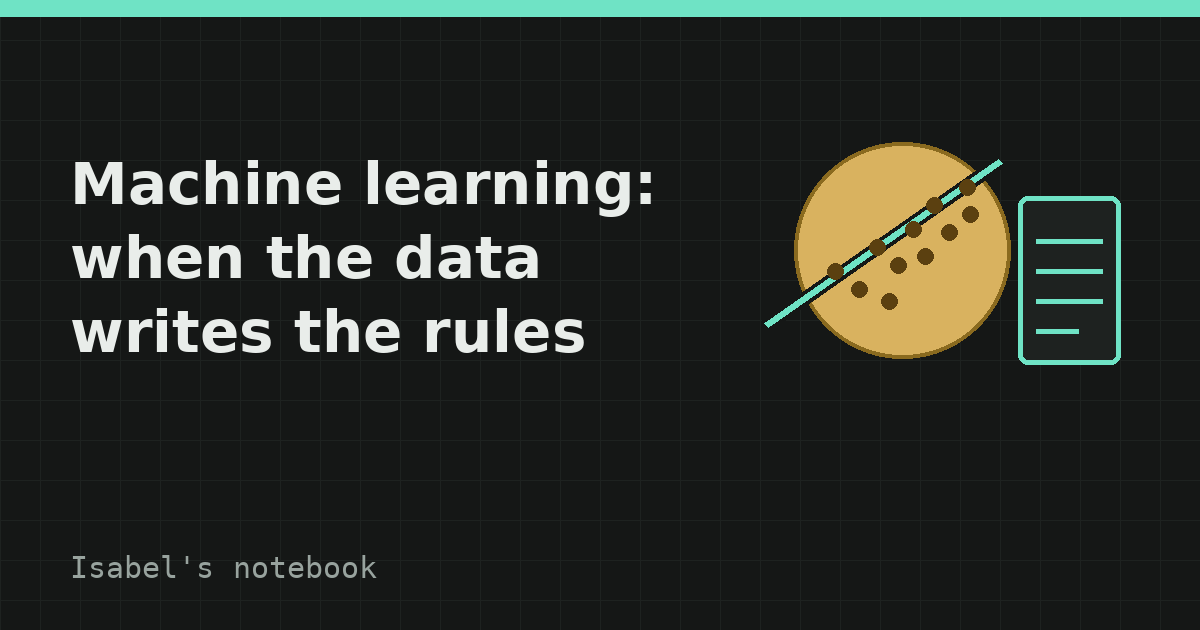
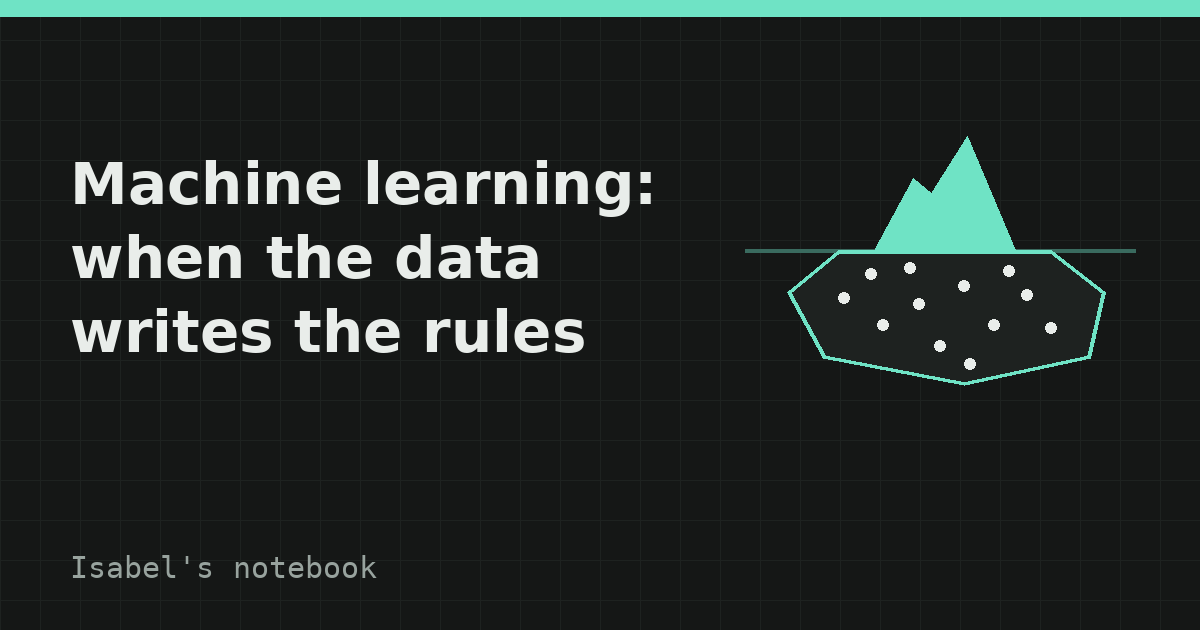
Primer art v4

Changed region(s): [[0.6167, 0.2111, 0.9558, 0.6032]]

diff --git a/docs/es/blog/machine-learning-datos-escriben-reglas/index.html b/docs/es/blog/machine-learning-datos-escriben-reglas/index.html
@@ -35,7 +35,7 @@
 <article>
 <header class="post-head"><div class="wrap"><div>
 <div class="post-meta"><time datetime="2026-10-11">11 oct 2026</time><span>10 min de lectura</span><span>Clase de Daniel Sáenz</span></div>
-<h1>Machine Learning: cuando los datos escriben las reglas</h1><div class="tags"><span>machine-learning</span><span>fundamentos</span><span>data-science</span></div></div><svg class="motif" viewBox="0 0 260 200" aria-hidden="true" focusable="false"><circle cx="105" cy="100" r="72" fill="#D9B25F" stroke="#8A6A1F" stroke-width="2.5"/><line x1="14" y1="150" x2="170" y2="41" stroke="var(--paper)" stroke-opacity=".85" stroke-width="8" stroke-linecap="round"/><line x1="14" y1="150" x2="170" y2="41" stroke="var(--accent)" stroke-width="3.5" stroke-linecap="round"/><circle cx="60" cy="114" r="5.2" fill="#5B4010"/><circle cx="76" cy="126" r="5.2" fill="#5B4010"/><circle cx="88" cy="98" r="5.2" fill="#5B4010"/><circle cx="102" cy="110" r="5.2" fill="#5B4010"/><circle cx="112" cy="86" r="5.2" fill="#5B4010"/><circle cx="126" cy="70" r="5.2" fill="#5B4010"/><circle cx="136" cy="88" r="5.2" fill="#5B4010"/><circle cx="148" cy="58" r="5.2" fill="#5B4010"/><circle cx="150" cy="76" r="5.2" fill="#5B4010"/><circle cx="96" cy="134" r="5.2" fill="#5B4010"/><circle cx="120" cy="104" r="5.2" fill="#5B4010"/><rect x="182" y="64" width="68" height="112" rx="7" fill="var(--surface)" stroke="var(--accent)" stroke-width="3"/><line x1="194" y1="94" x2="238" y2="94" stroke="var(--accent)" stroke-width="3" stroke-linecap="round"/><line x1="194" y1="114" x2="238" y2="114" stroke="var(--accent)" stroke-width="3" stroke-linecap="round"/><line x1="194" y1="134" x2="238" y2="134" stroke="var(--accent)" stroke-width="3" stroke-linecap="round"/><line x1="194" y1="154" x2="222" y2="154" stroke="var(--accent)" stroke-width="3" stroke-linecap="round"/></svg></div></header>
+<h1>Machine Learning: cuando los datos escriben las reglas</h1><div class="tags"><span>machine-learning</span><span>fundamentos</span><span>data-science</span></div></div><svg class="motif" viewBox="0 0 260 200" aria-hidden="true" focusable="false"><rect x="0" y="100" width="260" height="100" fill="var(--accent)" fill-opacity=".07"/><polygon points="86,100 112,52 124,62 148,24 180,100" fill="var(--accent)"/><polygon points="62,100 204,100 240,128 230,172 146,190 52,172 28,128" fill="var(--surface)" stroke="var(--accent)" stroke-width="2.5"/><line x1="0" y1="100" x2="260" y2="100" stroke="var(--accent)" stroke-opacity=".6" stroke-width="2"/><circle cx="66" cy="132" r="3.6" fill="var(--ink)"/><circle cx="92" cy="150" r="3.6" fill="var(--ink)"/><circle cx="84" cy="116" r="3.6" fill="var(--ink)"/><circle cx="116" cy="136" r="3.6" fill="var(--ink)"/><circle cx="130" cy="164" r="3.6" fill="var(--ink)"/><circle cx="146" cy="124" r="3.6" fill="var(--ink)"/><circle cx="166" cy="150" r="3.6" fill="var(--ink)"/><circle cx="188" cy="130" r="3.6" fill="var(--ink)"/><circle cx="204" cy="152" r="3.6" fill="var(--ink)"/><circle cx="110" cy="112" r="3.6" fill="var(--ink)"/><circle cx="176" cy="114" r="3.6" fill="var(--ink)"/><circle cx="150" cy="176" r="3.6" fill="var(--ink)"/></svg></div></header>
 <div class="prose"><p>Mi primera clase del máster respondió a una pregunta que parece obvia hasta que intentas explicarla: ¿qué es exactamente el Machine Learning? Estos son mis apuntes, reescritos con mis propios ejemplos, más un mini proyecto que voy a montar para ponerlo a prueba.</p>
 <h2>Qué es y dónde encaja</h2>
 <p>La Inteligencia Artificial es el campo amplio: conseguir que las máquinas hagan cosas que asociamos con la inteligencia. El Machine Learning (ML) es una de sus ramas: en lugar de decirle al ordenador qué hacer paso a paso, le das ejemplos y dejas que descubra los patrones por su cuenta.</p>

diff --git a/docs/en/blog/machine-learning-data-writes-the-rules/index.html b/docs/en/blog/machine-learning-data-writes-the-rules/index.html
@@ -35,7 +35,7 @@
 <article>
 <header class="post-head"><div class="wrap"><div>
 <div class="post-meta"><time datetime="2026-10-11">Oct 11, 2026</time><span>10 min read</span><span>Class by Daniel Sáenz</span></div>
-<h1>Machine learning: when the data writes the rules</h1><div class="tags"><span>machine-learning</span><span>fundamentals</span><span>data-science</span></div></div><svg class="motif" viewBox="0 0 260 200" aria-hidden="true" focusable="false"><circle cx="105" cy="100" r="72" fill="#D9B25F" stroke="#8A6A1F" stroke-width="2.5"/><line x1="14" y1="150" x2="170" y2="41" stroke="var(--paper)" stroke-opacity=".85" stroke-width="8" stroke-linecap="round"/><line x1="14" y1="150" x2="170" y2="41" stroke="var(--accent)" stroke-width="3.5" stroke-linecap="round"/><circle cx="60" cy="114" r="5.2" fill="#5B4010"/><circle cx="76" cy="126" r="5.2" fill="#5B4010"/><circle cx="88" cy="98" r="5.2" fill="#5B4010"/><circle cx="102" cy="110" r="5.2" fill="#5B4010"/><circle cx="112" cy="86" r="5.2" fill="#5B4010"/><circle cx="126" cy="70" r="5.2" fill="#5B4010"/><circle cx="136" cy="88" r="5.2" fill="#5B4010"/><circle cx="148" cy="58" r="5.2" fill="#5B4010"/><circle cx="150" cy="76" r="5.2" fill="#5B4010"/><circle cx="96" cy="134" r="5.2" fill="#5B4010"/><circle cx="120" cy="104" r="5.2" fill="#5B4010"/><rect x="182" y="64" width="68" height="112" rx="7" fill="var(--surface)" stroke="var(--accent)" stroke-width="3"/><line x1="194" y1="94" x2="238" y2="94" stroke="var(--accent)" stroke-width="3" stroke-linecap="round"/><line x1="194" y1="114" x2="238" y2="114" stroke="var(--accent)" stroke-width="3" stroke-linecap="round"/><line x1="194" y1="134" x2="238" y2="134" stroke="var(--accent)" stroke-width="3" stroke-linecap="round"/><line x1="194" y1="154" x2="222" y2="154" stroke="var(--accent)" stroke-width="3" stroke-linecap="round"/></svg></div></header>
+<h1>Machine learning: when the data writes the rules</h1><div class="tags"><span>machine-learning</span><span>fundamentals</span><span>data-science</span></div></div><svg class="motif" viewBox="0 0 260 200" aria-hidden="true" focusable="false"><rect x="0" y="100" width="260" height="100" fill="var(--accent)" fill-opacity=".07"/><polygon points="86,100 112,52 124,62 148,24 180,100" fill="var(--accent)"/><polygon points="62,100 204,100 240,128 230,172 146,190 52,172 28,128" fill="var(--surface)" stroke="var(--accent)" stroke-width="2.5"/><line x1="0" y1="100" x2="260" y2="100" stroke="var(--accent)" stroke-opacity=".6" stroke-width="2"/><circle cx="66" cy="132" r="3.6" fill="var(--ink)"/><circle cx="92" cy="150" r="3.6" fill="var(--ink)"/><circle cx="84" cy="116" r="3.6" fill="var(--ink)"/><circle cx="116" cy="136" r="3.6" fill="var(--ink)"/><circle cx="130" cy="164" r="3.6" fill="var(--ink)"/><circle cx="146" cy="124" r="3.6" fill="var(--ink)"/><circle cx="166" cy="150" r="3.6" fill="var(--ink)"/><circle cx="188" cy="130" r="3.6" fill="var(--ink)"/><circle cx="204" cy="152" r="3.6" fill="var(--ink)"/><circle cx="110" cy="112" r="3.6" fill="var(--ink)"/><circle cx="176" cy="114" r="3.6" fill="var(--ink)"/><circle cx="150" cy="176" r="3.6" fill="var(--ink)"/></svg></div></header>
 <div class="prose"><p>My first class of the master's answered a question that seems obvious until you try to explain it: what exactly is machine learning? These are my notes, rewritten with my own examples, plus a mini project I'm going to build to put it to the test.</p>
 <h2>What it is and where it fits</h2>
 <p>Artificial Intelligence is the broad field: getting machines to do things we associate with intelligence. Machine learning (ML) is one of its branches: instead of telling the computer what to do step by step, you give it examples and let it discover the patterns on its own.</p>

diff --git a/build.py b/build.py
@@ -143,6 +143,14 @@ COOKIE_PTS = [(60, 114), (76, 126), (88, 98), (102, 110), (112, 86), (126, 70), 
 
 
 def hero_svg(name):
+    if name == "iceberg":
+        dots = "".join(f'<circle cx="{x}" cy="{y}" r="3.6" fill="var(--ink)"/>' for x, y in ICE_DOTS)
+        return ('<svg class="motif" viewBox="0 0 260 200" aria-hidden="true" focusable="false">'
+                '<rect x="0" y="100" width="260" height="100" fill="var(--accent)" fill-opacity=".07"/>'
+                f'<polygon points="{_pts(ICE_TIP)}" fill="var(--accent)"/>'
+                f'<polygon points="{_pts(ICE_BODY)}" fill="var(--surface)" stroke="var(--accent)" stroke-width="2.5"/>'
+                '<line x1="0" y1="100" x2="260" y2="100" stroke="var(--accent)" stroke-opacity=".6" stroke-width="2"/>'
+                + dots + '</svg>')
     if name != "cookie":
         return None
     s = ['<svg class="motif" viewBox="0 0 260 200" aria-hidden="true" focusable="false">',
@@ -155,6 +163,26 @@ def hero_svg(name):
           for y, x2 in ((94, 238), (114, 238), (134, 238), (154, 222))]
     s.append("</svg>")
     return "".join(s)
+
+
+ICE_TIP = [(86, 100), (112, 52), (124, 62), (148, 24), (180, 100)]
+ICE_BODY = [(62, 100), (204, 100), (240, 128), (230, 172), (146, 190), (52, 172), (28, 128)]
+ICE_DOTS = [(66, 132), (92, 150), (84, 116), (116, 136), (130, 164), (146, 124), (166, 150), (188, 130), (204, 152), (110, 112), (176, 114), (150, 176)]
+
+
+def _pts(poly):
+    return " ".join(f"{x},{y}" for x, y in poly)
+
+
+def draw_iceberg(d, col):
+    k, ox, oy = 1.5, 745, 100
+    P = lambda x, y: (ox + x * k, oy + y * k)
+    d.line([P(0, 100), P(260, 100)], fill="#3A6B5F", width=4)
+    d.polygon([P(*p) for p in ICE_BODY], fill="#1E2220", outline=col, width=4)
+    d.polygon([P(*p) for p in ICE_TIP], fill=col)
+    for x, y in ICE_DOTS:
+        px, py = P(x, y)
+        d.ellipse([px - 5.5, py - 5.5, px + 5.5, py + 5.5], fill="#E9EDEA")
 
 
 def draw_cookie(d, col):
@@ -211,6 +239,8 @@ def og_image(path, title, key, accent, site_title, hero=None):
     d.rectangle([0, 0, W, 16], fill=col)
     if hero == "cookie":
         draw_cookie(d, col)
+    elif hero == "iceberg":
+        draw_iceberg(d, col)
     else:
         draw_scatter(d, key, col)
     f = font(58, bold=True)

diff --git a/content/es/posts/machine-learning-datos-escriben-reglas.md b/content/es/posts/machine-learning-datos-escriben-reglas.md
@@ -3,7 +3,7 @@ id: ml-reglas
 title: "Machine Learning: cuando los datos escriben las reglas"
 date: 2026-10-11
 accent: aqua
-hero: cookie
+hero: iceberg
 teacher: Daniel Sáenz
 tags: [machine-learning, fundamentos, data-science]
 summary: Qué es el Machine Learning, cómo se construye un proyecto de principio a fin y por qué entrenar el modelo es solo la punta del iceberg.

diff --git a/content/en/posts/machine-learning-data-writes-the-rules.md b/content/en/posts/machine-learning-data-writes-the-rules.md
@@ -3,7 +3,7 @@ id: ml-reglas
 title: "Machine learning: when the data writes the rules"
 date: 2026-10-11
 accent: aqua
-hero: cookie
+hero: iceberg
 teacher: Daniel Sáenz
 tags: [machine-learning, fundamentals, data-science]
 summary: What machine learning is, how a project is built from start to finish, and why training the model is only the tip of the iceberg.
